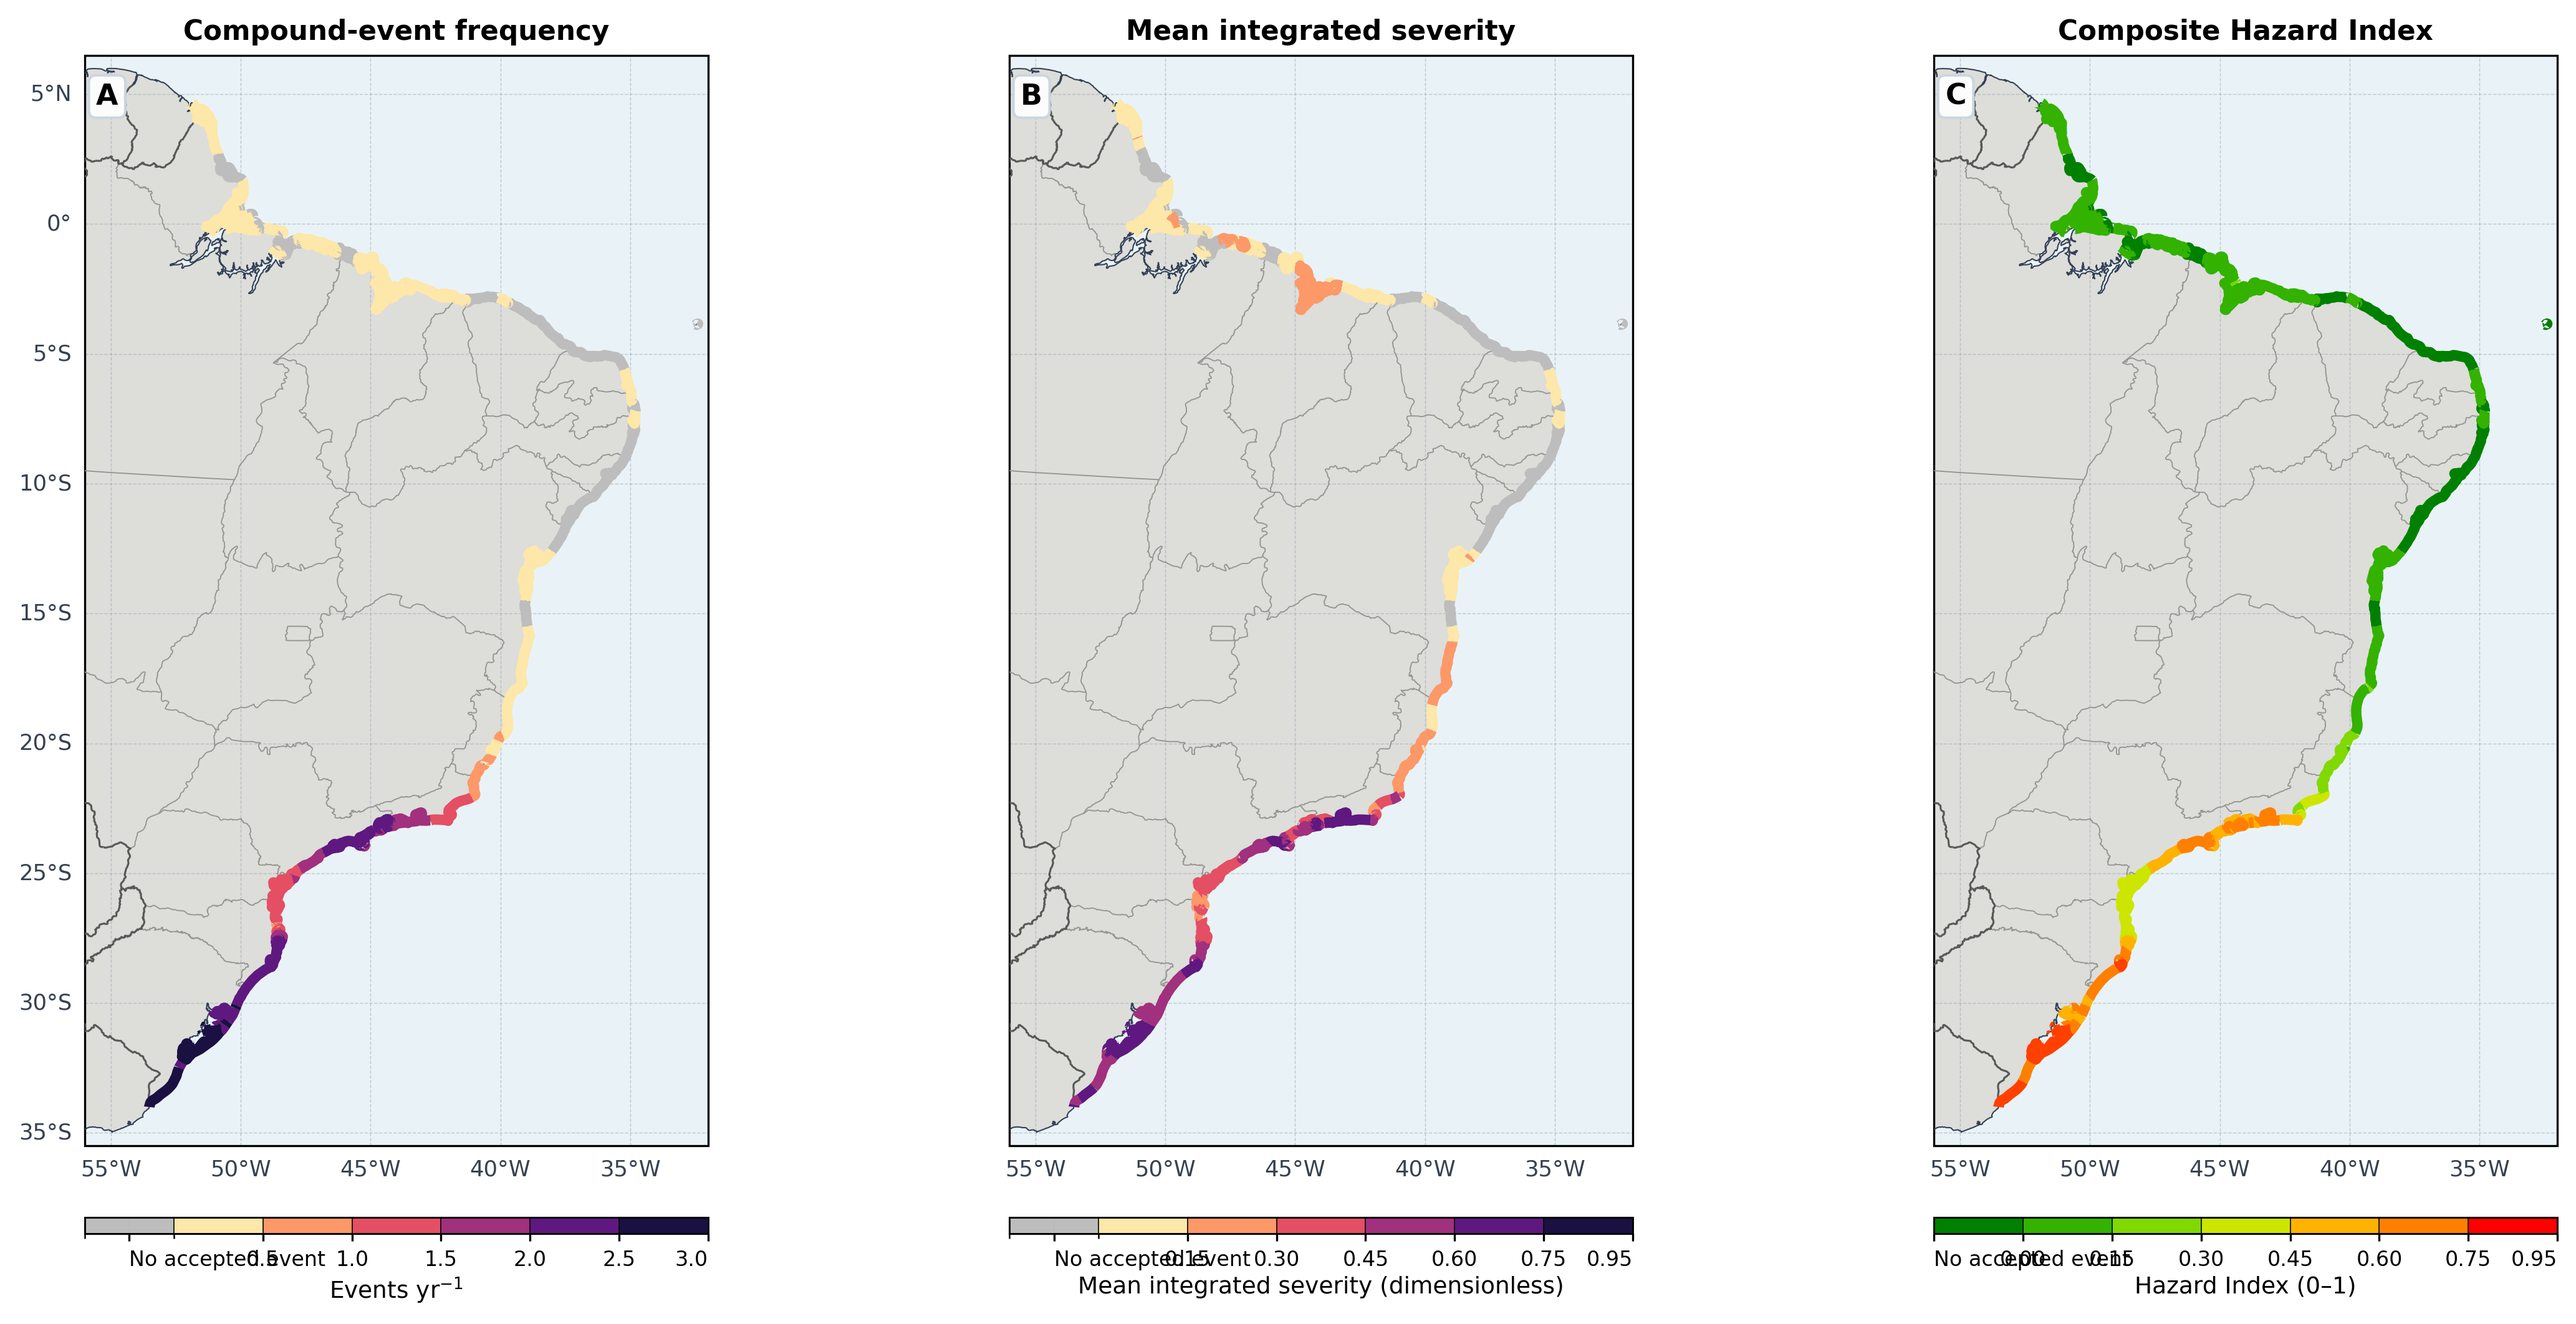
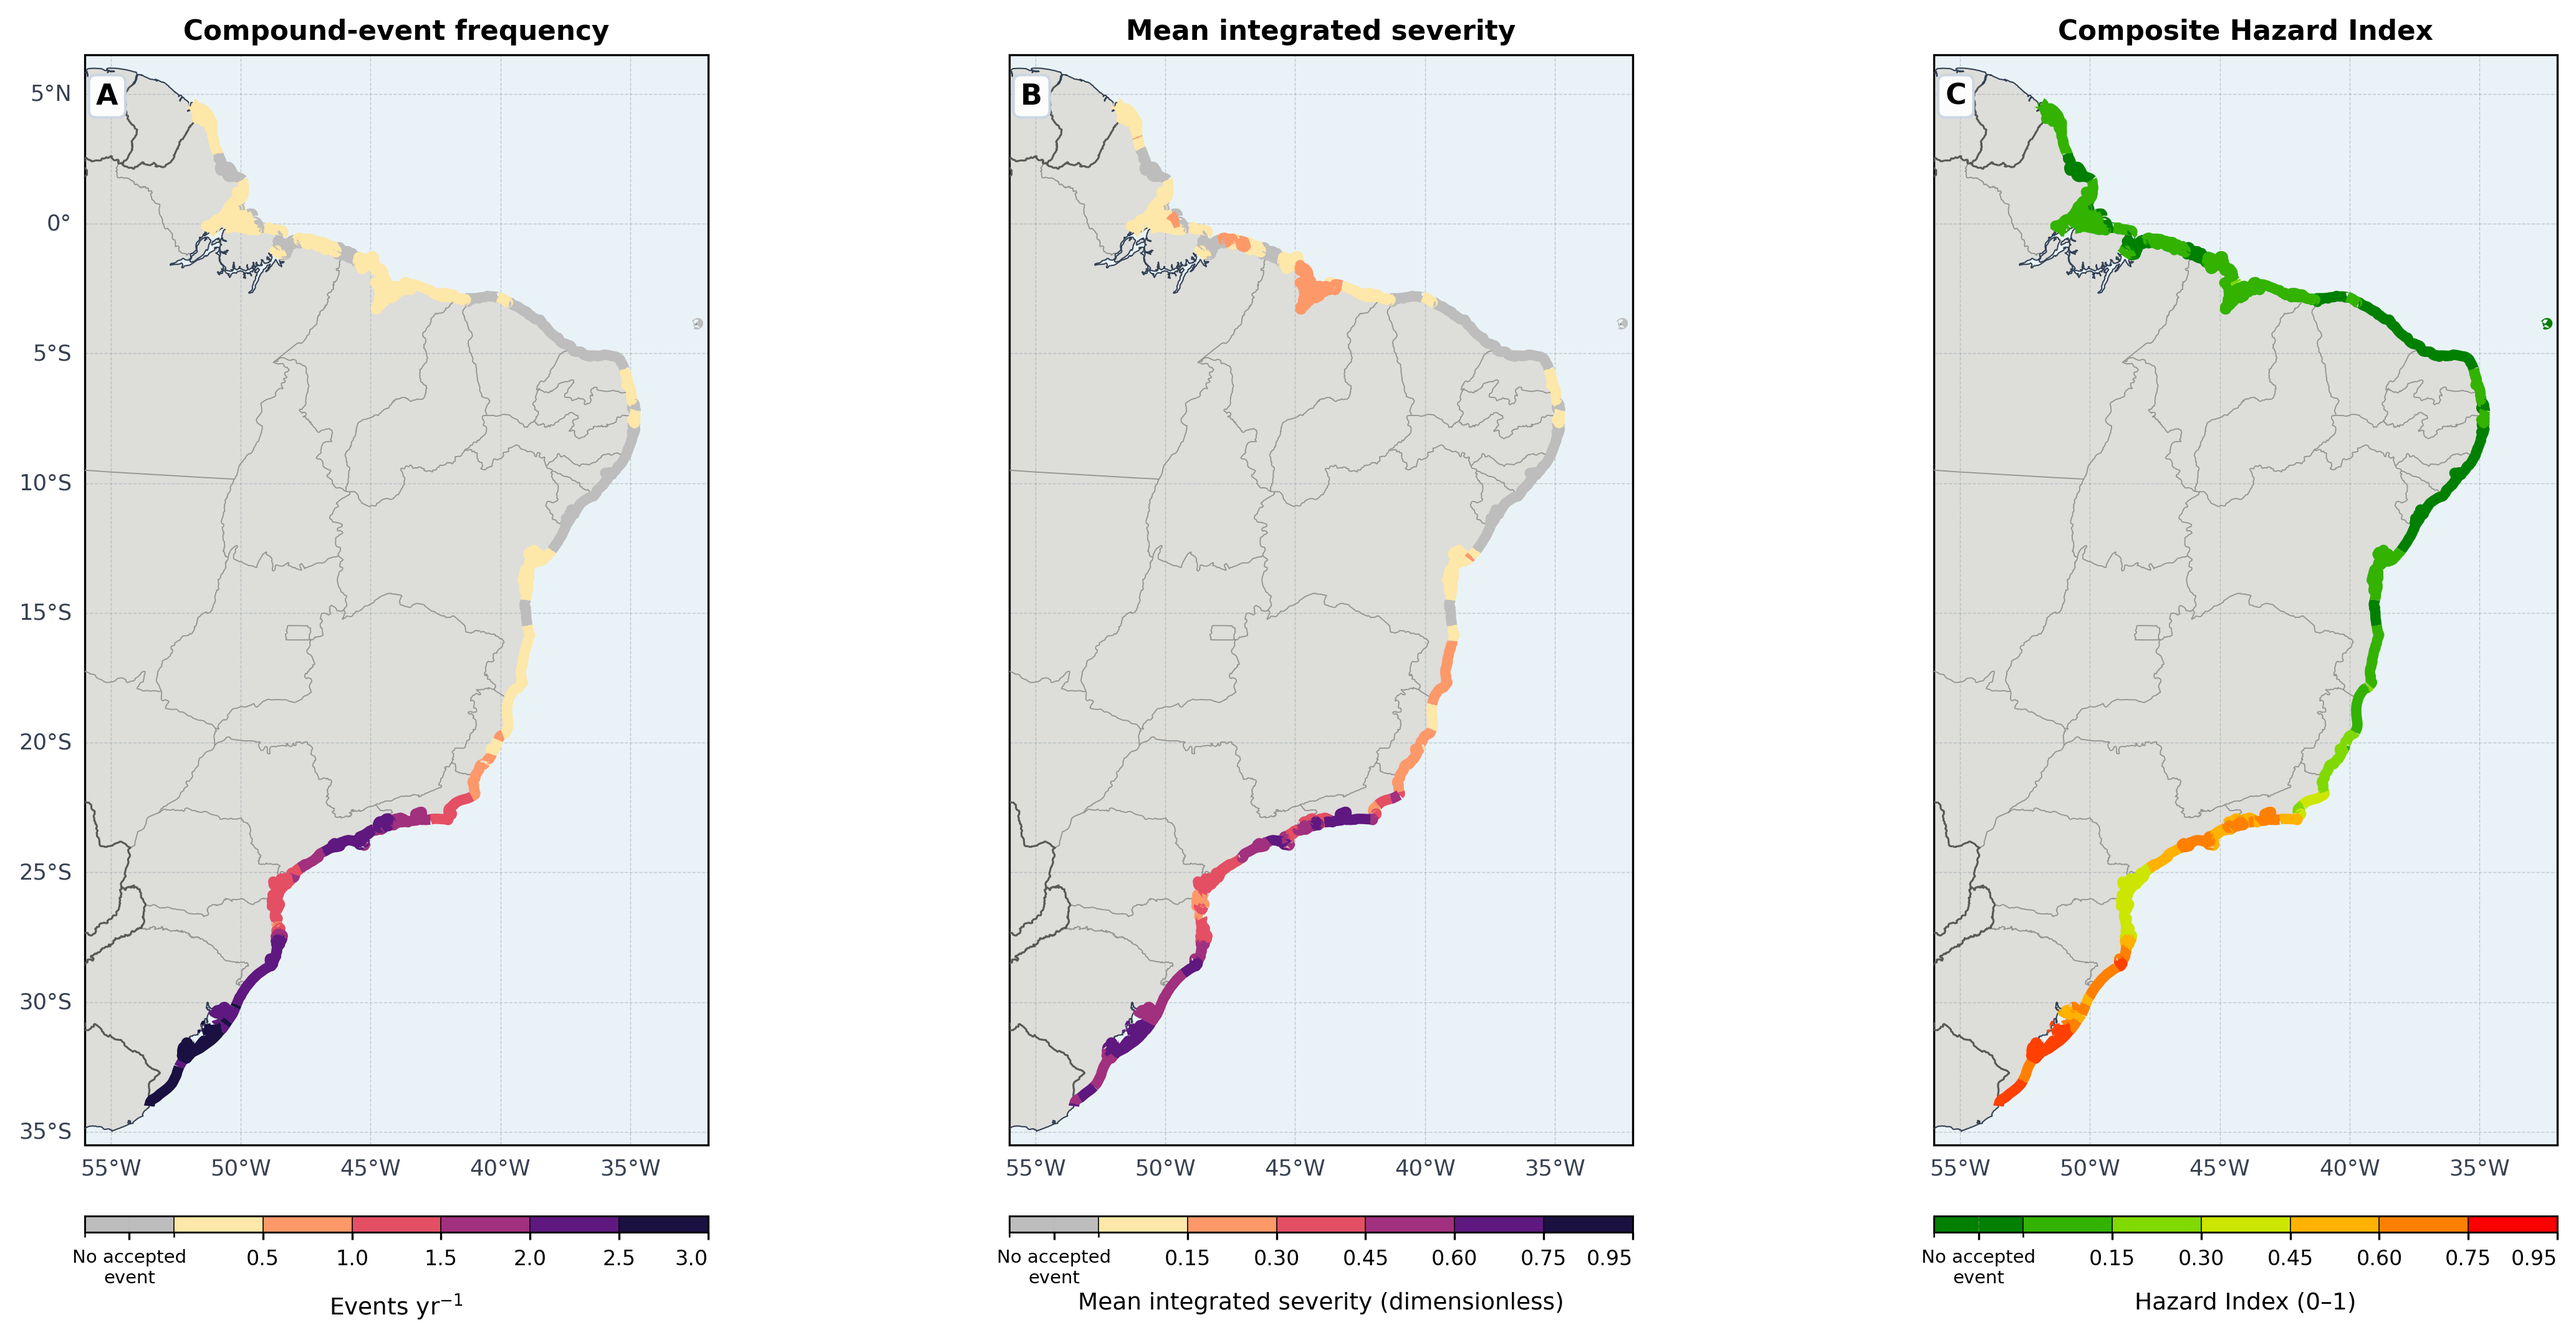
figures: regenerate article risk products

diff --git a/src/figures_article/make_article_hazard_vulnerability_risk_multiplot.py b/src/figures_article/make_article_hazard_vulnerability_risk_multiplot.py
@@ -6,17 +6,13 @@ Suggested LaTeX figure block (requires ``\usepackage{graphicx}``)
     \centering
     \includegraphics[width=\textwidth]{outputs/article_figures/hazard_vulnerability_risk_multiplot.png}
     \caption{Municipal-scale components of compound coastal risk along the
-    Brazilian coast: (a) the normalized frequency-duration-intensity Hazard
-    Index transferred from the native ocean grid to coastal municipalities,
-    (b) the population-exposure index, (c) the coastal Social Vulnerability
-    Index (SVI), and (d) the integrated risk index. Exposure combines the
-    resident population within 10~km of the coastline, log-scaled between fixed
-    goalposts of $10^2$ and $10^6$ inhabitants, with the share of the municipal
-    population inside that band. The integrated index is the geometric mean of
-    the three components, each floored at 0.01, Min--Max normalized to [0,1]
-    across the coastal municipalities. The geometric mean is conjunctive: a
-    component near zero pulls the index down, so that risk requires a hazard,
-    people exposed to it, and a susceptibility.
+    Brazilian coast: (a) the fixed-anchor physical Hazard Index transferred
+    from the native ocean grid to coastal municipalities, (b) social
+    vulnerability transformed from PC1 with the standard-normal CDF, and
+    (c) integrated risk, calculated as the geometric mean of hazard,
+    population exposure, and vulnerability without a floor or final Min--Max
+    normalization. Gray in panels (a) and (c) denotes municipalities with no
+    accepted compound event during 1993--2025.
     All panels use discrete classes from the Composite Score heatmap palette,
     inverted so that values increase from green through yellow and orange to
     red. Gray shading denotes unclassified land, light blue denotes the ocean,
@@ -123,10 +119,8 @@ def _plot_panel(
         extent=MAP_EXTENT,
         title=panel_spec["title"],
         panel_label=panel_spec["panel"],
+        draw_left_labels=draw_left_labels,
     )
-    if not draw_left_labels:
-        for label_artist in axis.get_yaxis().get_ticklabels():
-            label_artist.set_visible(False)
 
     municipalities.plot(
         ax=axis,

diff --git a/src/figures_article/make_article_coastal_hazard_components_map.py b/src/figures_article/make_article_coastal_hazard_components_map.py
@@ -396,7 +396,11 @@ def _add_colorbar(
         cax=colorbar_axis,
         orientation="horizontal",
         boundaries=boundaries,
-        ticks=ticks,
+        ticks=(
+            [float((boundaries[0] + boundaries[1]) / 2), *boundaries[2:]]
+            if zero_is_gray
+            else ticks
+        ),
         spacing="uniform",
         drawedges=True,
     )
@@ -406,11 +410,12 @@ def _add_colorbar(
     if zero_is_gray:
         labels = [label.get_text() for label in colorbar.ax.get_xticklabels()]
         if labels:
-            labels[0] = "No accepted event"
+            labels[0] = "No accepted\nevent"
             colorbar.ax.set_xticklabels(labels)
+            colorbar.ax.get_xticklabels()[0].set_fontsize(7)
     tick_labels = colorbar.ax.get_xticklabels()
     if tick_labels:
-        tick_labels[0].set_horizontalalignment("left")
+        tick_labels[0].set_horizontalalignment("center")
         tick_labels[-1].set_horizontalalignment("right")
     colorbar.outline.set_linewidth(0.7)
 

diff --git a/src/figures_article/make_article_supplementary_integrated_risk_zooms.py b/src/figures_article/make_article_supplementary_integrated_risk_zooms.py
@@ -199,6 +199,7 @@ def _setup_axis(
     extent: tuple[float, float, float, float],
     title: str,
     panel_label: str,
+    draw_left_labels: bool = True,
 ) -> None:
     crs = ccrs.PlateCarree()
     land, _, _ = _natural_earth_context()
@@ -238,6 +239,7 @@ def _setup_axis(
     grid.ylocator = FixedLocator(latitudes)
     grid.top_labels = False
     grid.right_labels = False
+    grid.left_labels = draw_left_labels
     grid.xlabel_style = {"size": 9, "color": "#374151"}
     grid.ylabel_style = {"size": 9, "color": "#374151"}
 
